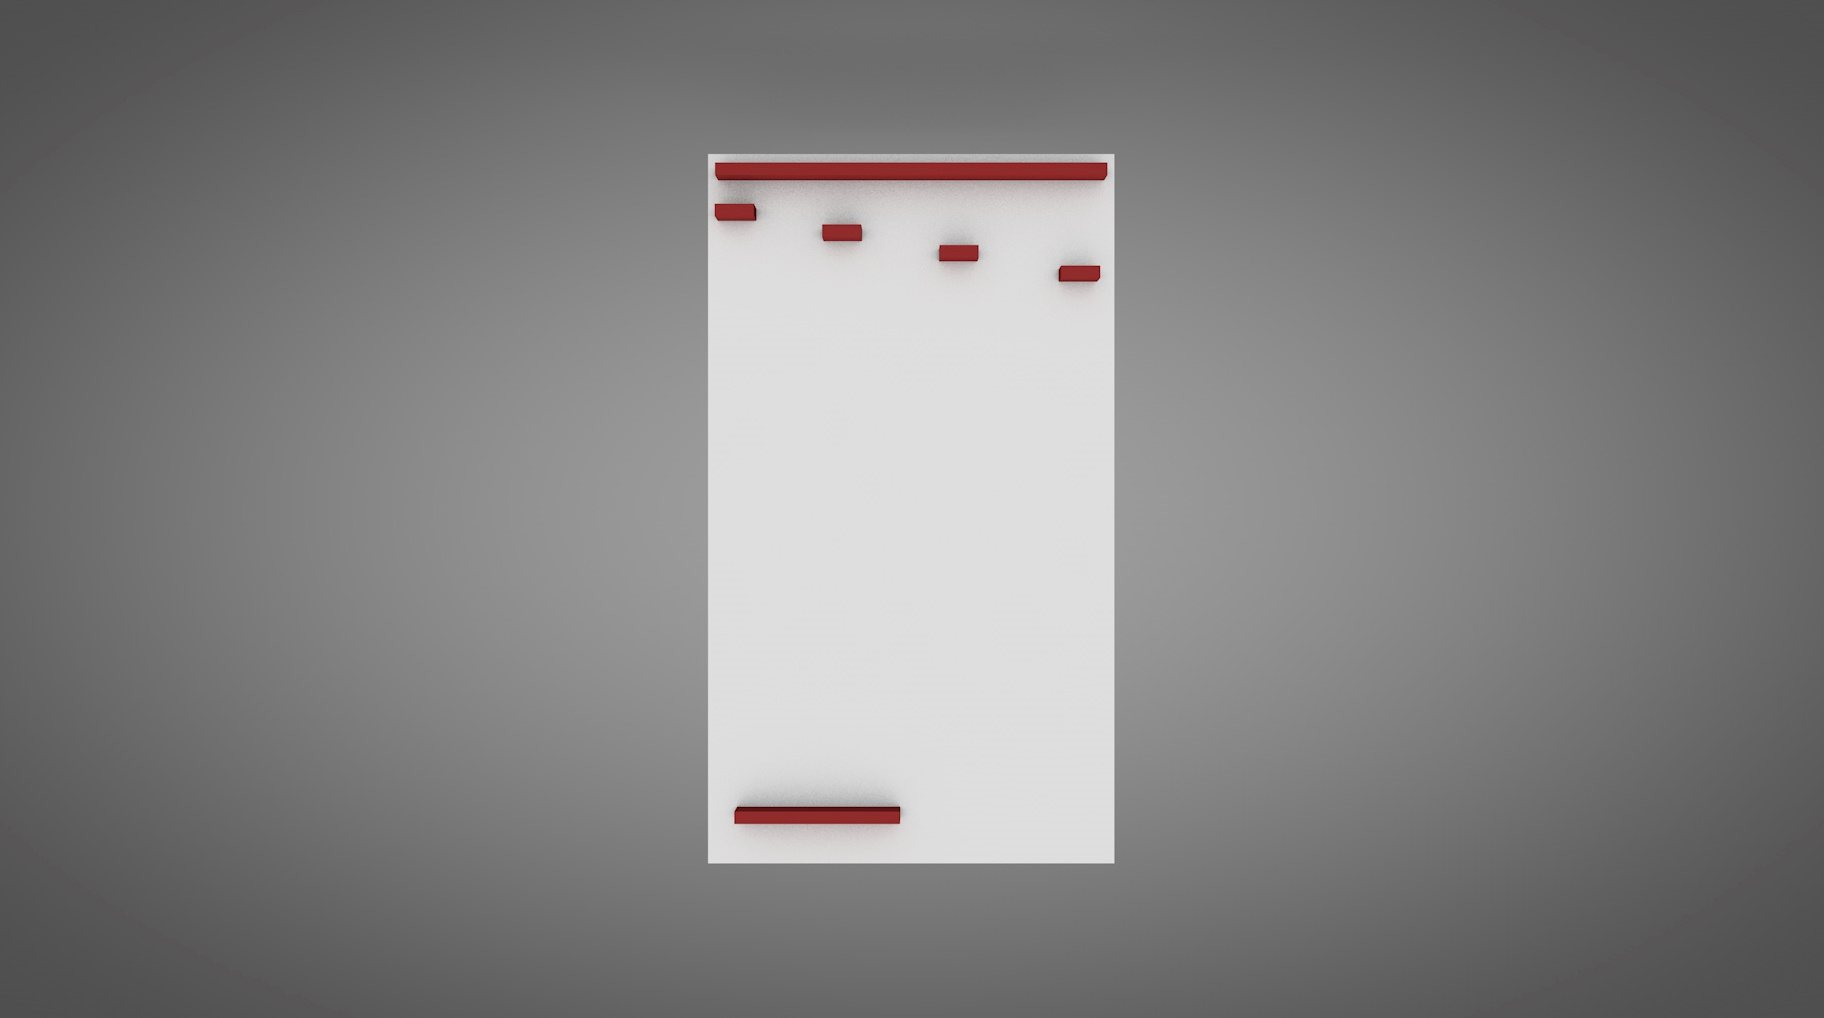
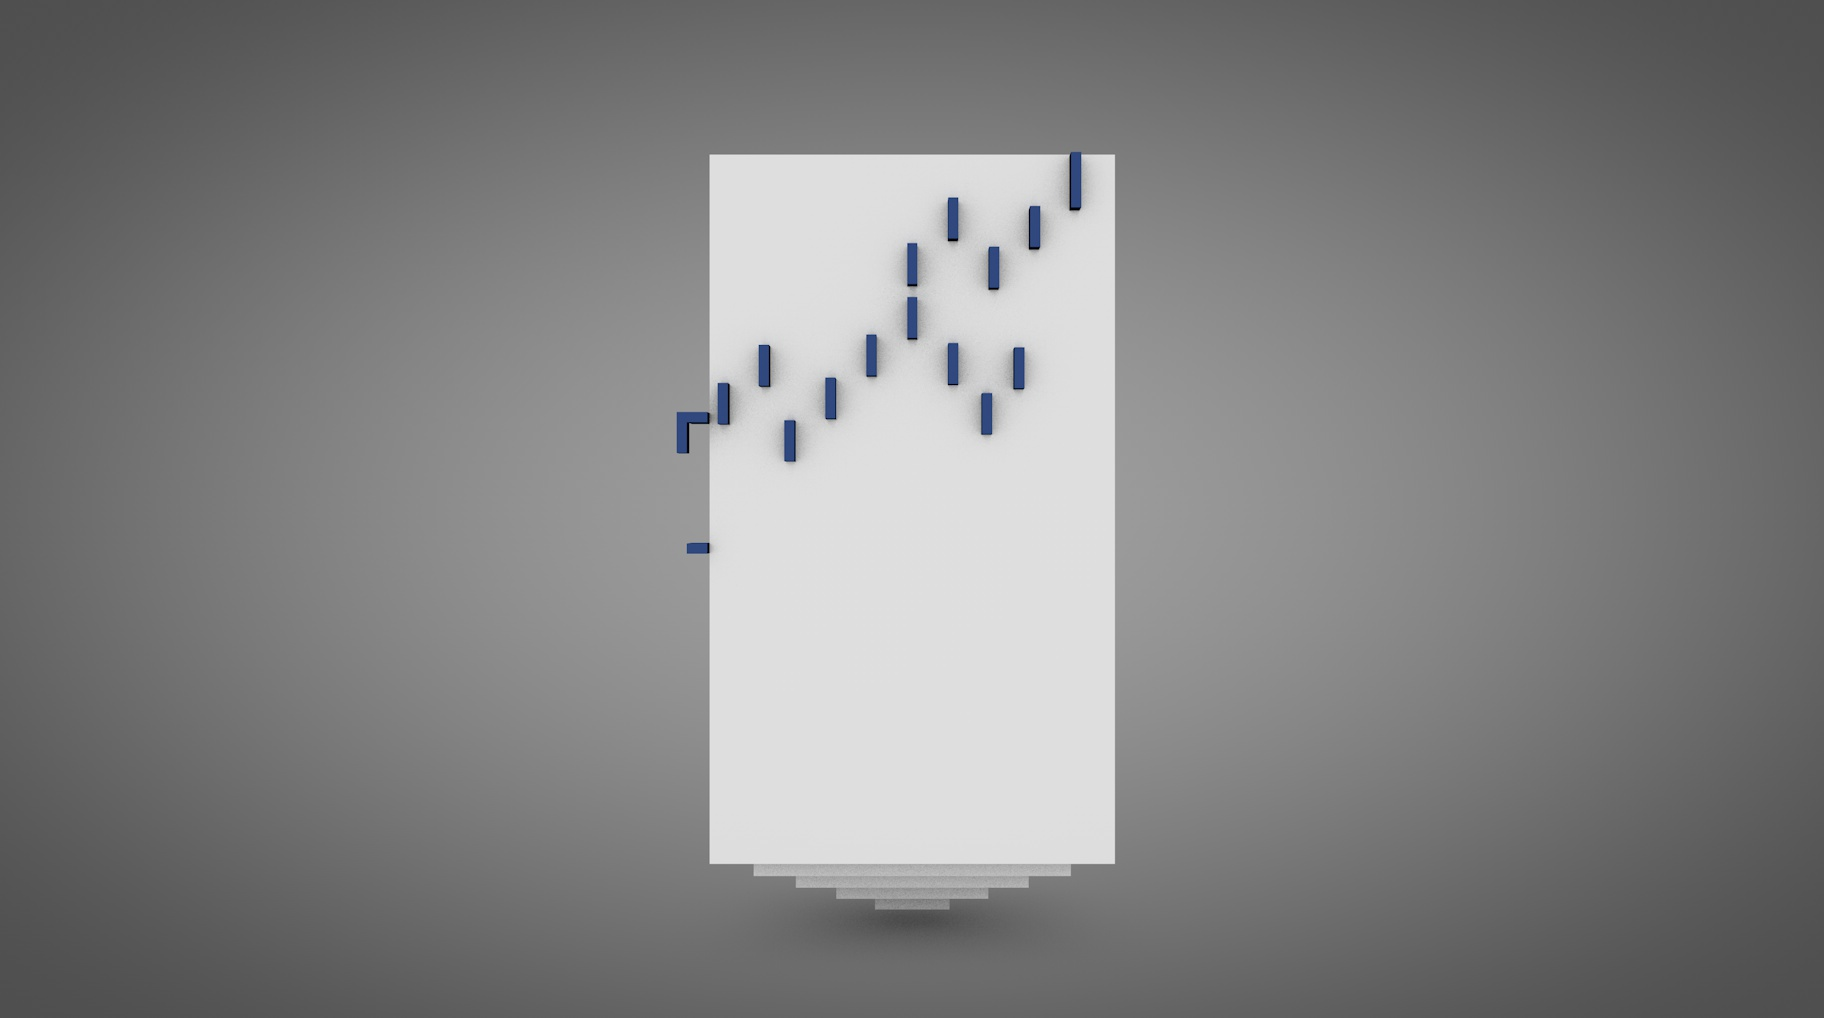
player size change, side 1 to 2 playable

diff --git a/js/Box2DPlayer.js b/js/Box2DPlayer.js
@@ -5,8 +5,8 @@
 
 function Box2DPlayer (sideNum) {
 
-var w = 10;
-var h = 10;    
+var w = 8;
+var h = 8;    
 var prevSquNum;
 var gravityDirection;
 var gravitypower = 0.01;
@@ -25,8 +25,8 @@ if(prevSquNum != sideNum && this.videoPlayed){
         moveSquY = 815;
         gravityDirection = 90;
     }else if(sideNum==2){ // gravity to the right
-        moveSquX = 740;
-        moveSquY = 715;
+        moveSquX = 690;
+        moveSquY = 700;
         gravityDirection = 0;
     }else if(sideNum==3){ // gravity up
         moveSquX = 840;
@@ -70,8 +70,8 @@ function PlayerMovement (playDirr, sideNum) {
     var down = 90;
     var left = 180;
     var right = 0;
-    var walk = 0.1;
-    var jump = 1;
+    var walk = 0.07;
+    var jump = 0.8;
 
     if(sideNum==1){
         if(playDirr == "a"){

diff --git a/js/Box2DSides.js b/js/Box2DSides.js
@@ -25,7 +25,8 @@ if(prevSideNum != sideNum){
             this.mySquaresForJumping.push(new Box2DBondary(1067, 520, 20, 5, 0));
             this.mySquaresForJumping.push(new Box2DBondary(1116, 480, 20, 5, 0));
         }else if(sideNum==2){ // Creating Side Two
-            this.mySquaresForJumping.push(new Box2DBondary(1200, 845, 5, 50, 0));
+            this.mySquaresForJumping.push(new Box2DBondary(713, 703, 5, 15, 0));
+            this.mySquaresForJumping.push(new Box2DBondary(753, 680, 5, 40, 0));
             this.mySquaresForJumping.push(new Box2DBondary(300, 300, 5, 100, 0));
             this.mySquaresForJumping.push(new Box2DBondary(400, 200, 5, 70, 0));
         }else if(sideNum==3){ // Creating Side Three

diff --git a/js/Box2DBox.js b/js/Box2DBox.js
@@ -61,8 +61,8 @@ function Box2DBox ( x,  y,  w, h) {
         var alpha = 1;
 
         ctx.save();
-        ctx.fillStyle = "rgba(151, 151, 255, " + alpha + ")";
-        ctx.strokeStyle = "rgba(151, 151, 255, " + alpha + ")";
+        ctx.fillStyle = "rgba(255, 255, 255, " + alpha + ")";
+        ctx.strokeStyle = "rgba(255, 255, 255, " + alpha + ")";
 
         ctx.beginPath();
         ctx.translate(miX, miY);

diff --git a/MainGame.js b/MainGame.js
@@ -111,7 +111,7 @@ function draw () {
     // change side if player reached right plattform
     if(videoPlayed == true){
         if(sideNum==1){
-            if(playerX>=1123 && playerX<=1127 && playerY<=701 && playerY>=699){
+            if(playerX>=1123 && playerX<=1127 && playerY<=703 && playerY>=700){
                 sideNum++;
                 countFrame = seconds+2;
                 videoPlayed = false;
